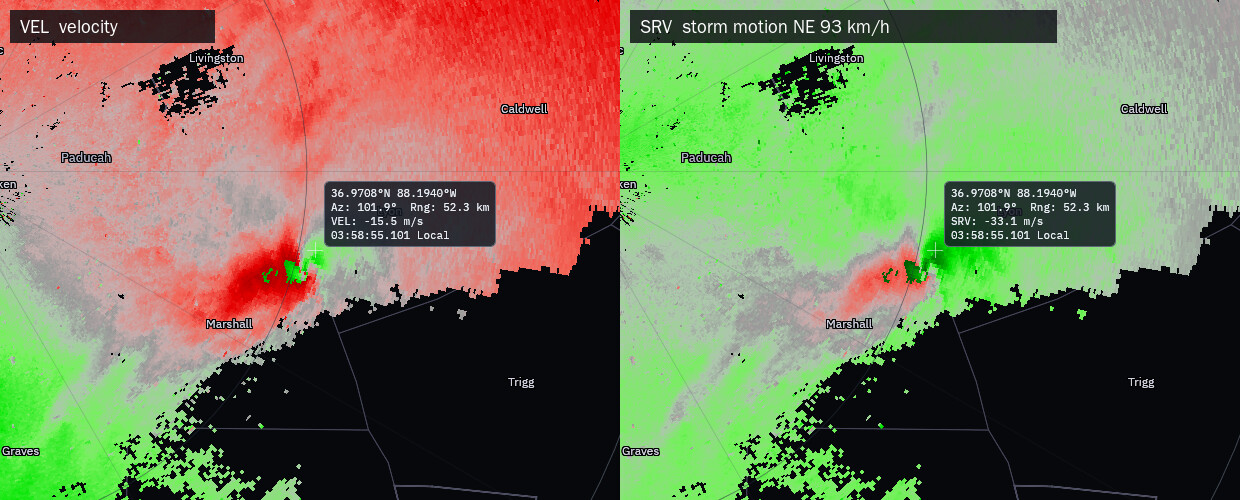
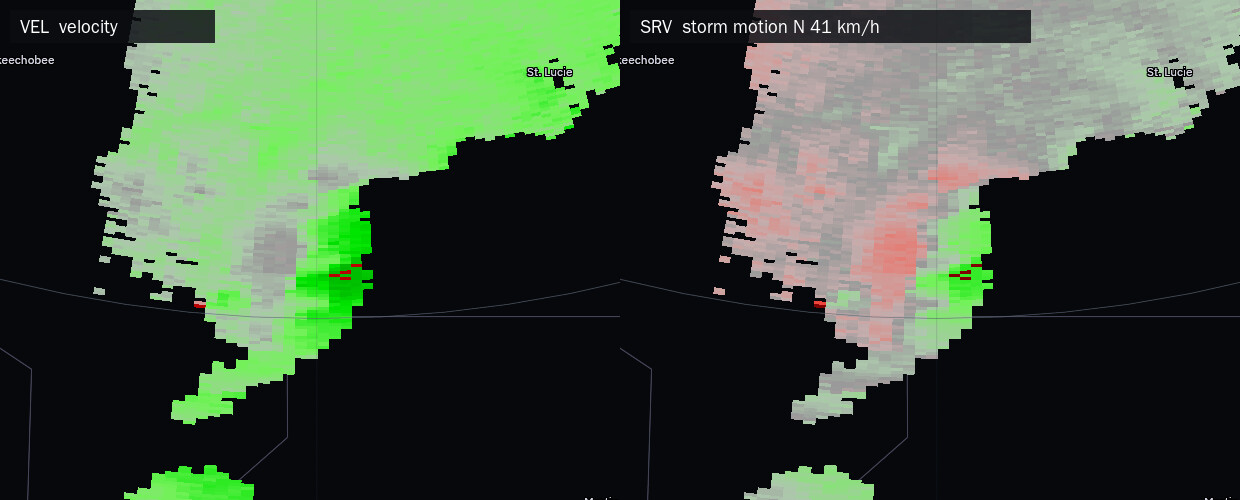
Use a Milton rainband storm for the storm-relative velocity example

diff --git a/README.md b/README.md
@@ -77,9 +77,9 @@ no account, no server: everything runs on your own device.
 
 <sub>**When will it get here.** The same outbreak at 03:47 UTC, with a measurement from Princeton, Kentucky, to the strongest storm. The end on the storm follows it as it moves, and the readout gives the distance and the storm's closest approach: 3.7 km in 23 minutes.</sub>
 
-![Velocity and storm-relative velocity side by side on the Mayfield storm near Lyon County, Kentucky](docs/media/vel-srv.jpg)
+![Velocity and storm-relative velocity side by side on a Milton rainband storm in St. Lucie County, Florida](docs/media/vel-srv.jpg)
 
-<sub>**Storm-relative velocity.** The same storm at 03:58 UTC, moving north-east at 93 km/h, almost straight away from the radar. In plain velocity (left) that motion paints the whole storm red, and the rotation shows only as a small green speck. Storm-relative velocity (right) takes the motion out, so the inbound side of the circulation stands out next to the outbound side. The probe reads the same gate as −15.5 m/s and −33.1 m/s.</sub>
+<sub>**Storm-relative velocity.** A storm in one of Hurricane Milton's rainbands, west of Fort Pierce, Florida, at 16:53 UTC on 9 October 2024, seen from Melbourne. The storms were moving north toward the radar at 41 km/h, so plain velocity (left) shows the whole cell inbound and the rotation is only a pale patch beside a darker green one. Storm-relative velocity (right) takes that motion out, and the same spot becomes an outbound and inbound pair side by side.</sub>
 
 ![Rays playback of one Milton volume, the sweep line painting each tilt over the last](docs/media/sweep.webp)
 
